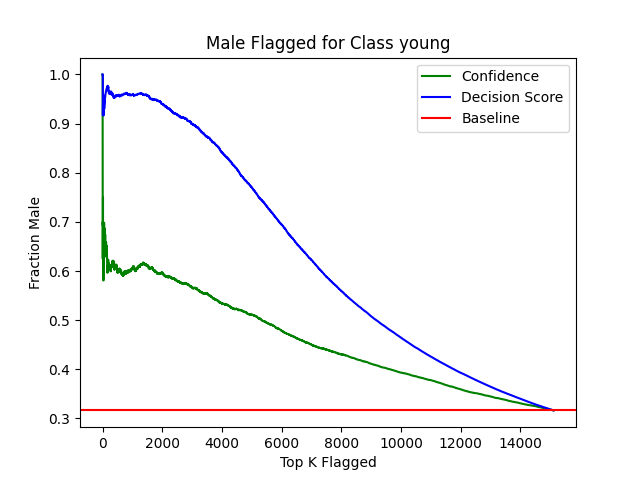
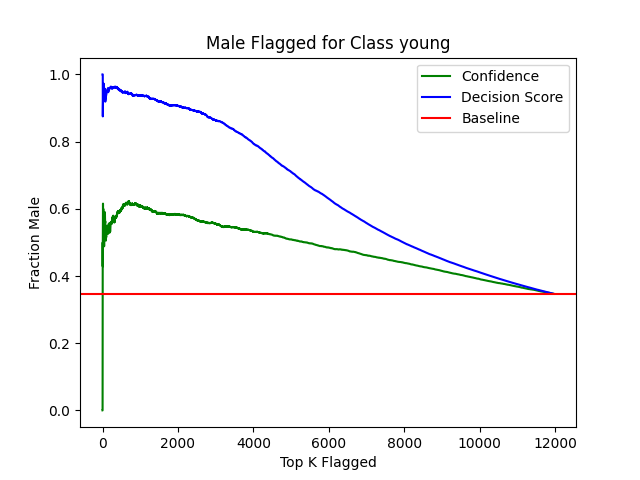
Was working with GMMs in test_gmm.py
About to make change where the GMM is trained on the entire CLIP
embedding space before determining if a cluster is hard/easy.
In this commit, there are two separate GMMs trained on only
the hard OR easy embeddings, which is reducing performance.

diff --git a/test_evals.py b/test_evals.py
@@ -10,21 +10,22 @@ from mean_train import MEANS, STDEVS
 
 load_dotenv()
 
+NUM_CORRS = int(os.getenv("NUM_CORRS"))
+assert NUM_CORRS in [1,2], "Can only handle 1-2 correlations in data"
 USE_RESNET = True
 BATCH_SIZE = 512
-assert torch.cuda.is_available(), "GPU is not available!"
-DEVICE = f'cuda:{torch.cuda.device_count()-1}'
+DEVICE = 'cuda' if torch.cuda.is_available() else 'cpu'
 
 
 # Load model
 MODEL_PATH = os.getenv("MODEL_PATH")
 if USE_RESNET:
-    OUT_FEATS = 1
+    OUT_FEATS = 2
     model = torchvision.models.resnet18()
     model.fc = nn.Linear(in_features=512, out_features=OUT_FEATS, bias=True)
 else: 
     model = CustomAgeNetwork()
-model.load_state_dict(torch.load(MODEL_PATH))
+model.load_state_dict(torch.load(MODEL_PATH, map_location=DEVICE))
 model.to(DEVICE)
 
 img_size = (int(os.getenv("IMG_WIDTH")), int(os.getenv("IMG_HEIGHT")))
@@ -46,6 +47,11 @@ def loader(dirn):
 TRAIN_DIR, VAL_DIR, TEST_DIR = os.getenv("TRAIN_DIR"), os.getenv("VAL_DIR"), os.getenv("TEST_DIR")
 train_loader, val_loader, test_loader = loader(TRAIN_DIR), loader(VAL_DIR), loader(TEST_DIR)
 
+list_1_corr = ['old_female', 'old_male', 'young_female', 'young_male']
+list_2_corr = ['old_female_no_smile', 'old_female_smile', 'old_male_no_smile', \
+               'old_male_smile', 'young_female_no_smile', 'young_female_smile', \
+                'young_male_no_smile', 'young_male_smile']
+
 def test_acc(data_loader, mode):
     """
     Loop through the data loader
@@ -56,44 +62,11 @@ def test_acc(data_loader, mode):
     """
 
     # stores number of correct classifications for each subgroup
-    results = {
-        'old_female_no_smile': {
-            'correct': 0,
-            'total': 0
-        },
-        'old_female_smile': {
-            'correct': 0,
-            'total': 0
-        },
-        'old_male_no_smile': {
-            'correct': 0,
-            'total': 0
-        },
-        'old_male_smile': {
-            'correct': 0,
-            'total': 0
-        },
-        'young_female_no_smile': {
-            'correct': 0,
-            'total': 0
-        },
-        'young_female_smile': {
-            'correct': 0,
-            'total': 0
-        },
-        'young_male_no_smile': {
-            'correct': 0,
-            'total': 0
-        },
-        'young_male_smile': {
-            'correct': 0,
-            'total': 0
-        }
-    }
+    corr_list = list_1_corr if NUM_CORRS == 1 else list_2_corr
+    results = {subgroup: {'correct': 0, 'total': 0} for subgroup in corr_list}
 
     total_correct = 0
     total_num = 0
-    sigmoid = nn.Sigmoid()
 
     with torch.no_grad():
         model.eval()
@@ -103,17 +76,24 @@ def test_acc(data_loader, mode):
             images = images.to(DEVICE)
             labels = labels.to(DEVICE)
             # Custom model
-            logits = model(images).squeeze()
-            pred = sigmoid(logits) > 0.5
+            logits = model(images) # model(images).squeeze()
+            # pred = sigmoid(logits) > 0.5
+            pred = torch.argmax(logits, dim=1)
             correct = pred == labels
             epoch_correct += correct.sum()
             epoch_total += labels.size()[0]
             
             start_idx = i * BATCH_SIZE
-            end_idx = start_idx + BATCH_SIZE
+            end_idx = start_idx + labels.size()[0]
             for f_idx, (f_path, class_num) in enumerate(data_loader.dataset.samples[start_idx:end_idx]):
                 # Use file path to get attributes
-                full_key = "_".join(f_path.split("/")[-4:-1]) # ex: old_female_no_smile
+                age = "young" if "young" in f_path else "old"
+                sex = "female" if "female" in f_path else "male"
+                if NUM_CORRS == 1:
+                    full_key = "_".join([age, sex]) # ex: old_female
+                else:
+                    smile = "no_smile" if "no_smile" in f_path else "smile"
+                    full_key = "_".join([age,sex,smile])
                 if correct[f_idx] == True:
                     total_correct += 1
                     results[full_key]['correct'] = results[full_key]['correct'] + 1
@@ -127,5 +107,5 @@ def test_acc(data_loader, mode):
 
 if __name__ == "__main__":
     # test_acc(train_loader, "train")
-    test_acc(val_loader, "val")
-    # test_acc(test_loader, "test")
+    # test_acc(val_loader, "val")
+    test_acc(test_loader, "test")

diff --git a/new_top_k_results.py b/new_top_k_results.py
@@ -36,13 +36,14 @@ print('Initializing Models and Loaders')
 
 # Misc vars
 DEVICE = "cuda" if torch.cuda.is_available() else "cpu"
-MODES = ["young"] # ["old", "young"]
+MODES = ["old"] # ["old", "young"]
 sigmoid = nn.Sigmoid()
 
 # Custom model
 CUSTOM_MODEL_PATH = os.getenv("MODEL_PATH")
+OUT_FEATS = 2
 custom_model = torchvision.models.resnet18()
-custom_model.fc = nn.Linear(in_features=512, out_features=1, bias=True)
+custom_model.fc = nn.Linear(in_features=512, out_features=OUT_FEATS, bias=True)
 custom_model.load_state_dict(torch.load(CUSTOM_MODEL_PATH, map_location=DEVICE))
 custom_model.to(DEVICE)
 
@@ -85,9 +86,10 @@ for mode in MODES:
             images = images.to(DEVICE)
             labels = labels.to(DEVICE)
             b_size = labels.size()[0]
-            model_output = custom_model(images).squeeze()
-            sig_out = sigmoid(model_output)
-            preds = torch.where(sig_out>0.5, 1, 0)
+            model_output = custom_model(images) #.squeeze()
+            # sig_out = sigmoid(model_output)
+            # preds = torch.where(sig_out>0.5, 1, 0)
+            preds = torch.argmax(model_output, dim=1)
             correct = torch.where(preds==labels, 1, -1)
             correctness[cur_idx:cur_idx+b_size] = correct
             cur_idx += b_size
@@ -146,12 +148,14 @@ for mode, svm_c in zip(MODES, trained_svms):
             images = images.to(DEVICE)
             labels = labels.to(DEVICE)
             b_size = labels.size()[0]
-            model_output = custom_model(images).squeeze()
-            sig_out = sigmoid(model_output)
-            conf = torch.abs(0.5-sig_out) # confidence represented by distance to 0.5
+            model_output = custom_model(images) #.squeeze()
+            # sig_out = sigmoid(model_output)
+            # conf = torch.abs(0.5-sig_out) # confidence represented by distance to 0.5
+            conf = torch.max(model_output, dim=1).values
             confidences[cur_idx:cur_idx+b_size] = conf
             if CALC_SVM_ACC:
-                preds = torch.where(sig_out>0.5, 1, 0)
+                # preds = torch.where(sig_out>0.5, 1, 0)
+                preds = torch.argmax(model_output, dim=1)
                 correct = torch.where(preds==labels, 1, -1)
                 test_correctness[cur_idx:cur_idx+b_size] = correct
             cur_idx += b_size

diff --git a/test_evals_orig.py b/test_evals_orig.py
@@ -10,6 +10,7 @@ from mean_train import MEANS, STDEVS
 
 load_dotenv()
 
+NUM_CORRS = os.getenv("NUM_CORRS")
 USE_RESNET = True
 BATCH_SIZE = 512
 DEVICE = f'cuda' if torch.cuda.is_available() else 'cpu'
@@ -101,7 +102,10 @@ def test_acc(data_loader, mode):
                 # Use file path to get attributes val_orig/old/female
                 sex = "female" if "female" in f_path else "male"
                 age = "young" if "young" in f_path else "old"
-                full_key = "_".join([age, sex]) # ex: old_female_no_smile
+                full_key = "_".join([age, sex]) # ex: old_female
+                if NUM_CORRS == 2:
+                    smiling = "no_smile" if "no_smile" in f_path else "smile"
+                    full_key = "_".join(age,sex,smiling)
                 if correct[f_idx] == True:
                     total_correct += 1
                     results[full_key]['correct'] = results[full_key]['correct'] + 1

diff --git a/train_resnet.py b/train_resnet.py
@@ -42,7 +42,7 @@ def loader(dirn):
     return DataLoader(datasets.ImageFolder(dirn, transform=data_transforms), batch_size=BATCH_SIZE, shuffle=True)
 
 TRAIN_DIR= os.getenv("TRAIN_DIR")
-train_loader = loader(TRAIN_DIR)
+train_loader = DataLoader(datasets.ImageFolder(TRAIN_DIR, transform=data_transforms), batch_size=BATCH_SIZE, shuffle=True)
 
 model = torchvision.models.resnet18()
 # overwrite the last layer of resnet to use
